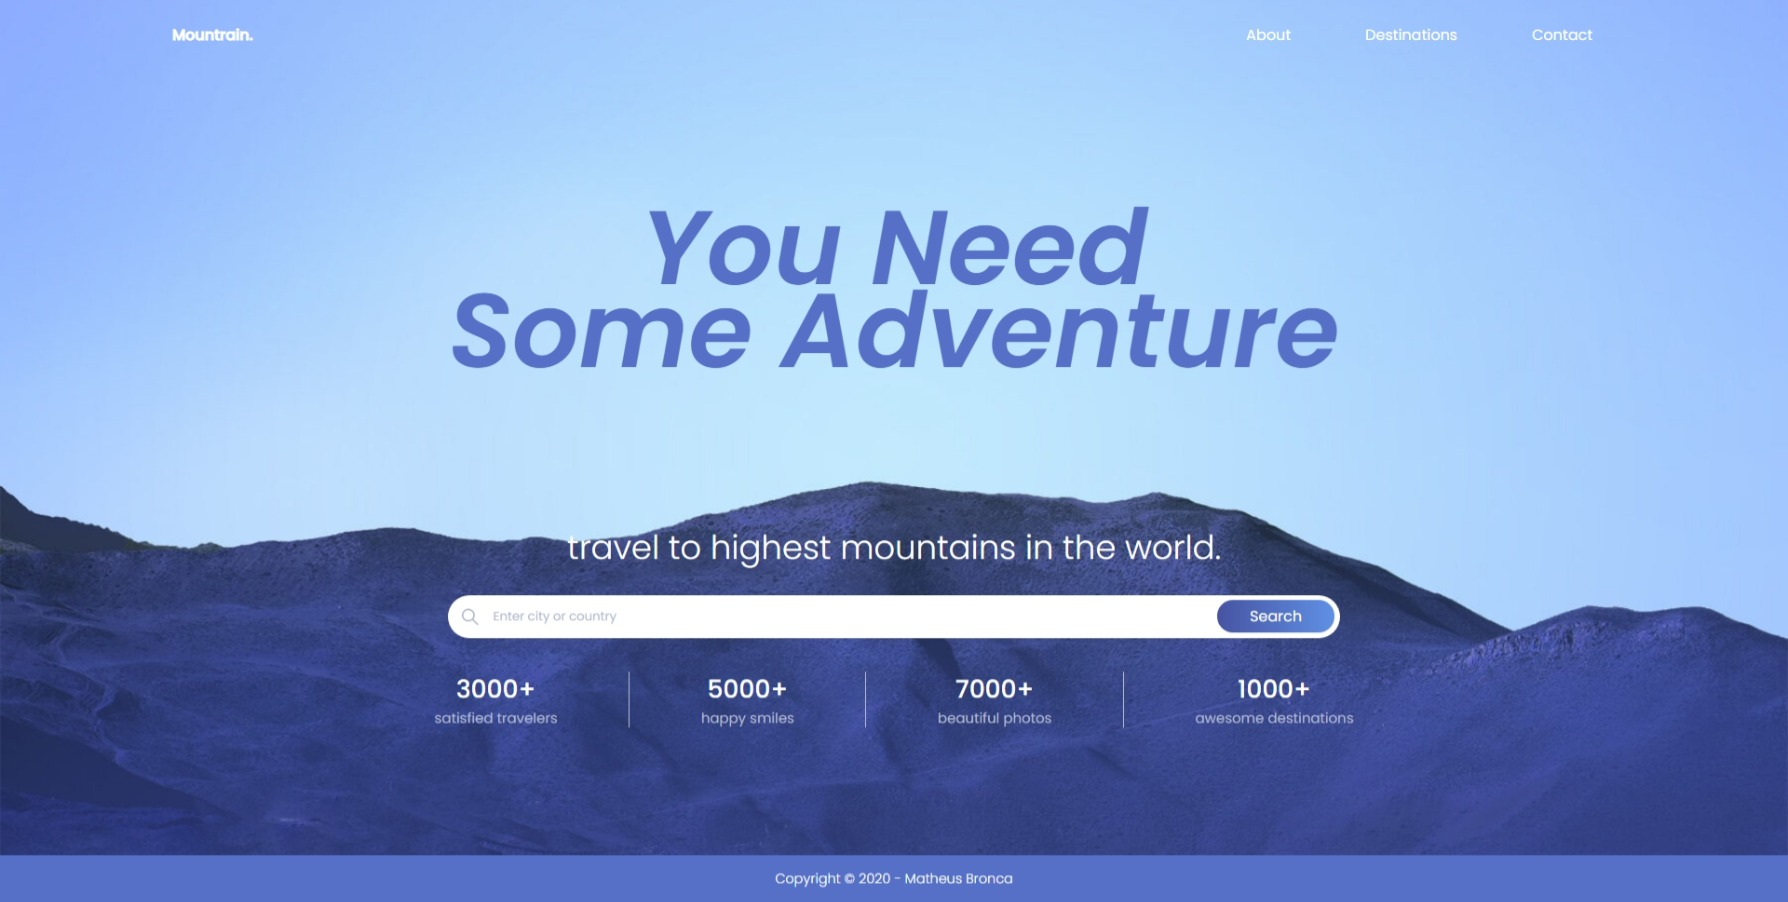
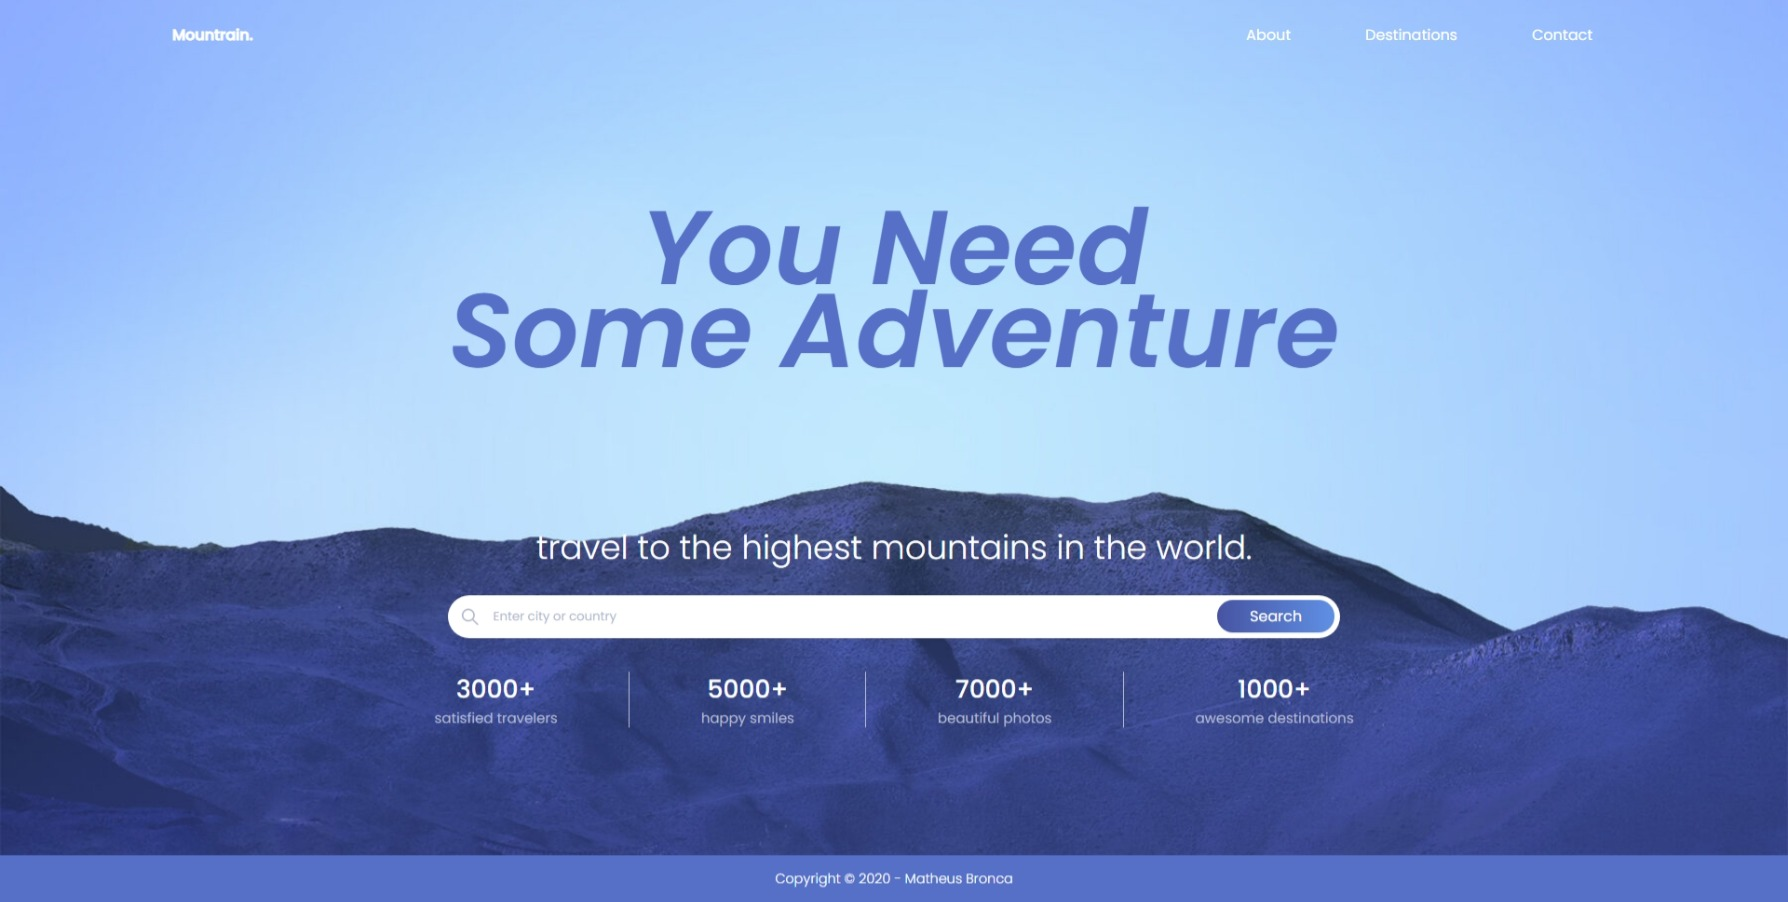
Added readme

Changed region(s): [[0.3076, 0.5898, 0.7075, 0.6208]]

diff --git a/index.html b/index.html
@@ -5,7 +5,7 @@
     <meta name="viewport" content="width=device-width, initial-scale=1.0">
     <link href="https://fonts.googleapis.com/css?family=Poppins:300,400,500,600i&display=swap" rel="stylesheet">
     <link rel="stylesheet" href="css/style.css">
-    <title>Mountrain - Travel to highest mountains in the World</title>
+    <title>Mountrain - Travel to the highest mountains in the World</title>
 </head>
 <body>
     <header>
@@ -24,7 +24,7 @@
         <h1 class="intro">You need<br>some adventure</h1>
         <section class="bottom-container">
             <div class="search-container">
-                <p>travel to highest mountains in the world.</p>
+                <p>travel to the highest mountains in the world.</p>
                 <div class="search-bar">
                     <input type="text" name="search" id="search" placeholder="Enter city or country">
                     <a href="#">Search</a>
